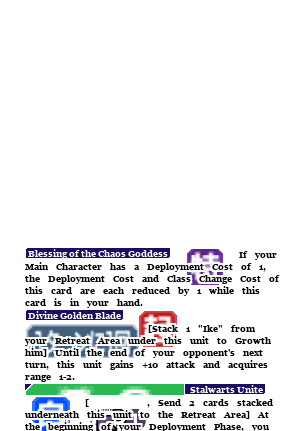
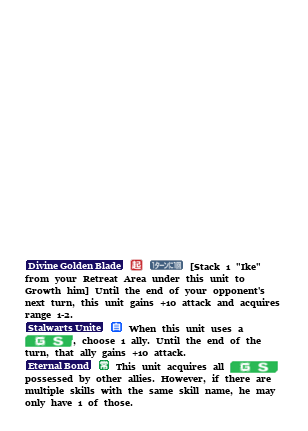
changes

Changed region(s): [[0.0584, 0.5731, 0.9058, 1.0], [0.8766, 0.6334, 0.9058, 0.6636]]

diff --git a/basecreation/skillCreator.py b/basecreation/skillCreator.py
@@ -68,7 +68,7 @@ if isSupSkl:
 ###############################################################################################################
 #Constants
 ###############################################################################################################
-skillatr = ['lis','bs','hs','cp','db','dv','ts','fs','ccs','cf','us','is','as','lvs2','lvs3','lvs4','lvs5','lvs7']
+skillatr = ['lis','bs','hs','cp','db','dv','ts','fs','ccs','cf','gs','us','is','as','lvs2','lvs3','lvs4','lvs5','lvs7']
 skilltypes = ['act','auto','cont','bond','spec','supp','hand']
 
 attributes = ['armor','axe','beast','black','blue','bow','brawl','brown','dragon','dragonstone','knife',
@@ -102,7 +102,7 @@ i = 0
 # get rows
 fontsize = 9
 font = ImageFont.truetype('georgiab.ttf', fontsize)
-charwid = 8
+charwid = 6
 rowheight = 12
 rowextra = 2
 rowlen = 282
@@ -138,11 +138,11 @@ for i in skills:
                     output.paste(imsklstrt, (xpos,ypos), imsklstrt)
                     output.paste(imskl, (xpos+3,ypos))
                     output.paste(imsklend, (xpos+x+3,ypos), imsklend)
-                    xpos = xpos + x + 6
+                    xpos = xpos + x + 18
                 else:
                     output.paste(imskl, (xpos,ypos))
                     output.paste(imsklend, (xpos+x,ypos), imsklend)
-                    xpos = xpos + x + 3
+                    xpos = xpos + x + 15
                 ypos = ypos + rowextra
                 #print(ypos)
             elif skilltext[idx].lower() in attributes:

diff --git a/basecreation/base_editor_helper.py b/basecreation/base_editor_helper.py
@@ -255,11 +255,22 @@ def get_rows(skills, charwid, rowheight, rowextra, fontsize, attributes, font, r
 def drawChar(draw, xpos, ypos, inpchar, font):
     # layer 1
     draw.text((xpos, ypos), inpchar, font=font, fill=(255,255,255))
+
+    draw.text((xpos, ypos-1), inpchar, font=font, fill=(255,255,255))
+    draw.text((xpos, ypos+1), inpchar, font=font, fill=(255,255,255))
+    draw.text((xpos-1, ypos), inpchar, font=font, fill=(255,255,255))
+    draw.text((xpos+1, ypos), inpchar, font=font, fill=(255,255,255))
+
     draw.text((xpos-1, ypos-1), inpchar, font=font, fill=(255,255,255))
     draw.text((xpos+1, ypos-1), inpchar, font=font, fill=(255,255,255))
     draw.text((xpos-1, ypos+1), inpchar, font=font, fill=(255,255,255))
     draw.text((xpos+1, ypos+1), inpchar, font=font, fill=(255,255,255))
     # layer 2
+    draw.text((xpos, ypos-2), inpchar, font=font, fill=(255,255,255))
+    draw.text((xpos, ypos+2), inpchar, font=font, fill=(255,255,255))
+    draw.text((xpos-2, ypos), inpchar, font=font, fill=(255,255,255))
+    draw.text((xpos+2, ypos), inpchar, font=font, fill=(255,255,255))
+
     draw.text((xpos-2, ypos-1), inpchar, font=font, fill=(255,255,255))
     draw.text((xpos+2, ypos-1), inpchar, font=font, fill=(255,255,255))
     draw.text((xpos-2, ypos+1), inpchar, font=font, fill=(255,255,255))
